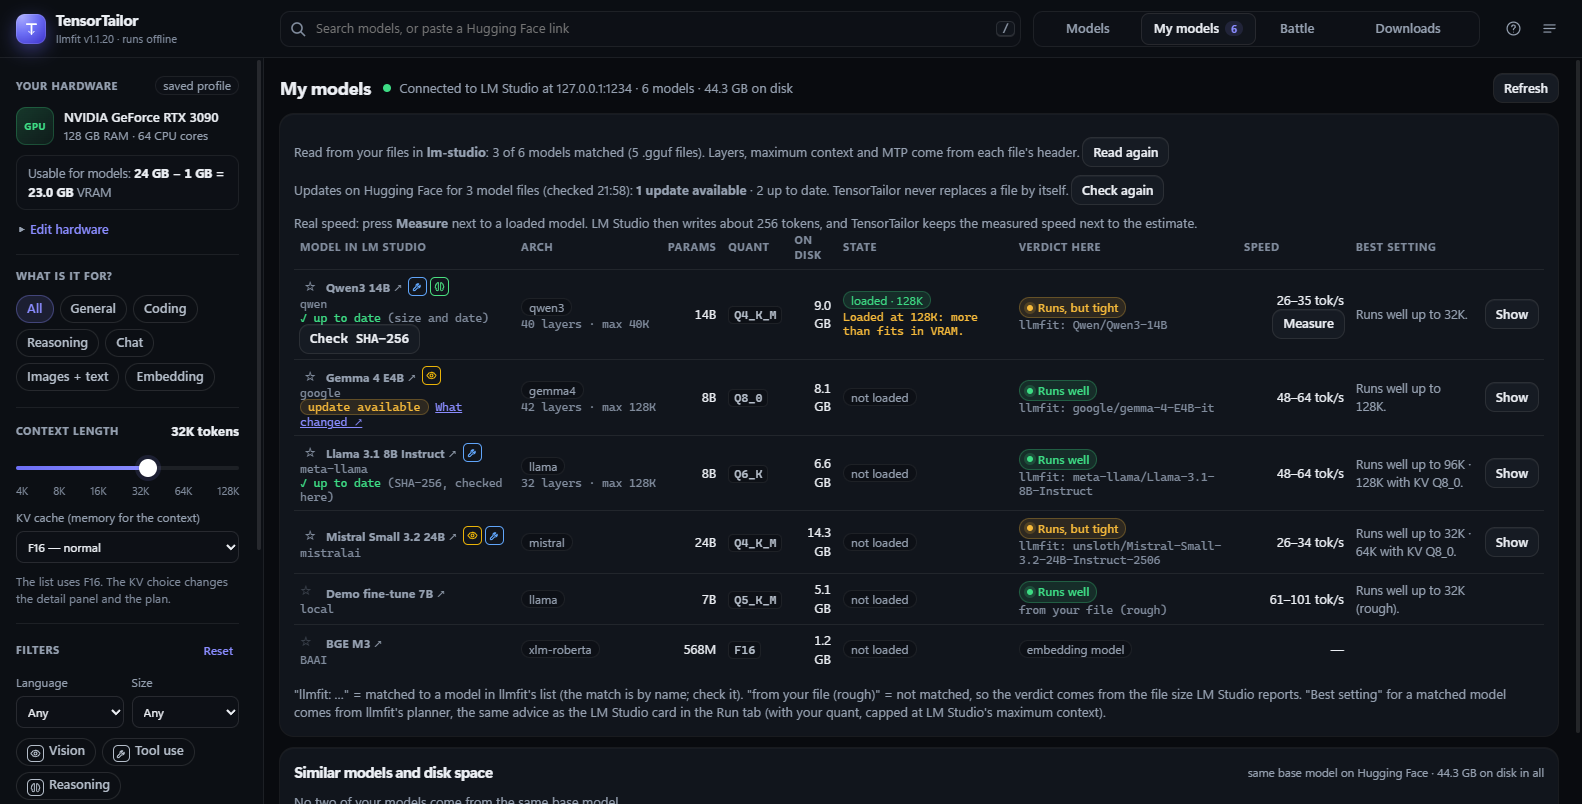
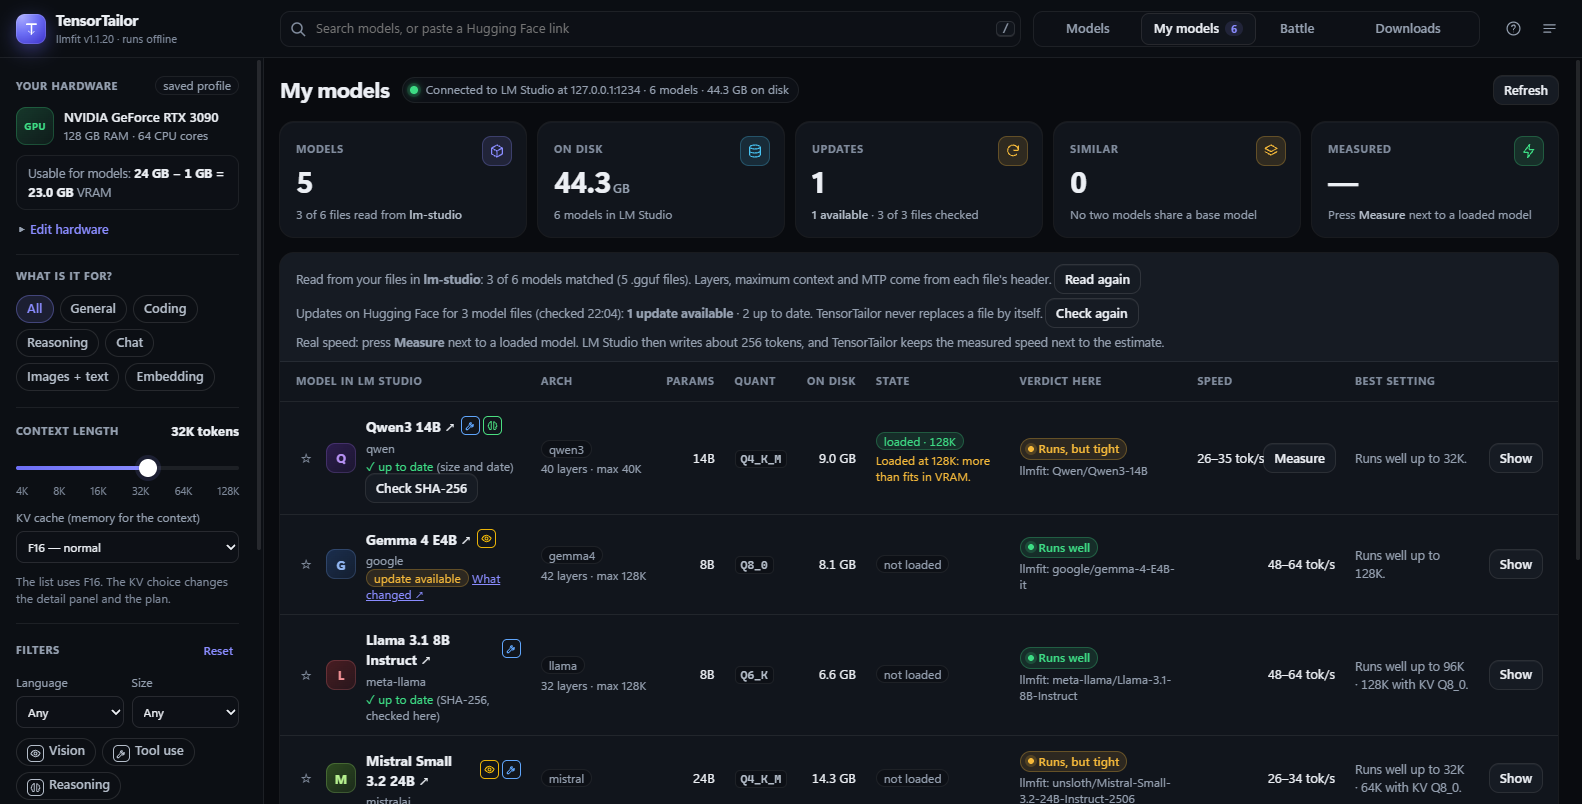
Implemented by Claude Opus 5.5: style: design v4 My models dashboard
Step D5: five summary cards (models, on disk, updates, similar, measured), the status lines as one block above the table, rows with a monogram avatar and calmer meta lines. Help updated.

diff --git a/web/app.html b/web/app.html
@@ -740,6 +740,46 @@ input[type="range"]:focus-visible::-webkit-slider-thumb { box-shadow: 0 0 0 4px 
 .stats { grid-template-columns: 1.45fr 1fr 1fr .9fr; }
 /* The Load box in Run: button and its note under each other, so the box always grows with the text. */
 .lmload.top { display: grid; grid-template-columns: minmax(0, 1fr); gap: 8px; justify-items: start; align-items: start; padding: 12px 14px; }
+
+/* ==== Design v4, step D5: My models ==== */
+.view-pane { gap: 16px; }
+.view-head h1 { font-size: 22px; font-weight: 650; letter-spacing: -.02em; }
+.view-head .status-line { padding: 4px 10px 4px 8px; border-radius: 99px; font-size: 12px; background: var(--sunken); box-shadow: inset 0 0 0 1px var(--line); }
+.view-head .status-line .dot.ok { box-shadow: 0 0 0 3px var(--perfect-soft), 0 0 8px var(--perfect); }
+.kpis { display: grid; grid-template-columns: repeat(5, minmax(0, 1fr)); gap: 12px; }
+.kpi { position: relative; overflow: hidden; padding: 16px 16px 14px; }
+.kpi-l { font: 700 10.5px var(--font); letter-spacing: .08em; text-transform: uppercase; color: var(--faint); }
+.kpi-ic { position: absolute; right: 14px; top: 14px; width: 30px; height: 30px; border-radius: 9px; display: grid; place-items: center; color: var(--c); background: color-mix(in srgb, var(--c) 13%, transparent); box-shadow: inset 0 0 0 1px color-mix(in srgb, var(--c) 26%, transparent); }
+.kpi-ic svg { width: 16px; height: 16px; fill: none; stroke: currentColor; stroke-width: 1.7; stroke-linecap: round; stroke-linejoin: round; }
+.kpi b { display: block; margin-top: 8px; font: 700 30px/1 var(--display); letter-spacing: -.03em; }
+.kpi b small { font: 600 13px var(--font); color: var(--muted); margin-left: 3px; letter-spacing: 0; }
+.kpi p { margin: 10px 0 0; font-size: 12px; color: var(--muted); line-height: 1.4; }
+.kpi p b { display: inline; font: 600 12px var(--font); color: var(--text-2); margin: 0; letter-spacing: 0; }
+/* The status lines as one quiet list above the table. */
+.mine-card { padding: 0; overflow: hidden; }
+.mine-status { padding: 6px 16px 10px; border-bottom: 1px solid var(--line); background: var(--raised); }
+.mine-status .hint { margin: 6px 0 0; font-size: 12.5px; }
+.mine-status .warn-box, .mine-status .loading { margin: 6px 0 0; }
+.mine-card > .hint { padding: 0 16px 14px; }
+/* The table: avatars, sans-serif meta lines, numbers that do not wrap. */
+.mtable th { padding: 12px 10px; white-space: nowrap; border-bottom: 1px solid var(--line); }
+.mtable td { padding: 12px 10px; font-size: 13px; }
+.mtable th:first-child, .mtable td:first-child { padding-left: 16px; }
+.mtable th:last-child, .mtable td:last-child { padding-right: 16px; }
+.mtable tbody tr { transition: background .15s; }
+.mtable tbody tr:hover td { background: var(--hover); }
+.mtable td.r, .mtable th.r { white-space: nowrap; }
+.mtable .hash { font: 12px var(--font); color: var(--muted); margin-top: 2px; }
+.mtable .d-id { color: var(--text); font-size: 14px; }
+.mtable .d-id:hover { color: var(--accent); }
+.mm { display: flex; align-items: center; gap: 10px; min-width: 0; }
+.mm-n { min-width: 0; }
+.mm-t { display: flex; align-items: center; gap: 6px; }
+.mm .star { flex: none; }
+.mtable .quant { font-size: 11.5px; }
+.kpi b.num { text-align: left; }
+/* Cards in the views keep their full height (the view itself scrolls). */
+.view-pane > * { flex: none; }
 </style>
 </head>
 <body>
@@ -1055,6 +1095,7 @@ input[type="range"]:focus-visible::-webkit-slider-thumb { box-shadow: 0 0 0 4px 
       <dt>My models</dt><dd>The models in your LM Studio (its server must be on: Developer tab → server on), with their size on disk, whether they are loaded, the verdict and speed here. <b>Show</b> opens the model in Models. "bundled with LM Studio" marks the embedding model that comes with LM Studio itself (it is not in your models folder; LM Studio uses it to search documents you add to a chat).</dd>
       <dt>My models: your files</dt><dd>My models asks once for LM Studio's models folder (the same folder as for Downloads). TensorTailor matches each model to its file by size and reads only the start of the file. The Arch column then shows the layers and the maximum context ("65 layers · max 256K"); point at it for the KV cache figures (KV heads, head size, how many layers keep the whole context). For models that TensorTailor added itself ("live" or "from LM Studio"), llmfit then counts the KV cache exactly instead of roughly. When LM Studio does not name the quant, the file name tells it.</dd>
       <dt>My models: MTP labels</dt><dd><span class="tag okay">MTP on</span> / <span class="tag">MTP off</span>: LM Studio's own setting for a loaded model. <span class="tag okay">MTP in file</span>: the header of your model file has MTP layers. <span class="tag">MTP (name)</span>: only the name says MTP; read your files to know for sure. "no MTP in file": the name says MTP, the file has none.</dd>
+      <dt>My models: summary cards</dt><dd>Five cards at the top: <b>Models</b> (and how many files TensorTailor read from your folder), <b>On disk</b>, <b>Updates</b> (files with a newer version on Hugging Face), <b>Similar</b> (space of models made from the same base model, and how much keeping one per group would free) and <b>Measured</b> (your real speed as a share of llmfit's estimate). The details are in the lines above the table and in the rows.</dd>
       <dt>My models: Best setting</dt><dd>For a model matched to llmfit's list: the longest context that runs well, from llmfit's planner, the same advice as the LM Studio card in the Run tab ("Runs well up to 32K · 64K with KV Q8_0" = 32K normally, 64K with K and V cache at Q8_0). Capped at LM Studio's maximum. Not matched: a rough estimate from the file size. A loaded model with a longer context than fits gets a warning.</dd>
       <dt>My models: Updates</dt><dd>After TensorTailor has read your models folder, it asks Hugging Face about each model file and its vision projector (the folder name is the repo; once a day, or <b>Check again</b>). <span class="tag warnish">update available</span>: the file on Hugging Face now has another size or SHA-256; <b>What changed ↗</b> opens its history. <span class="tag">maybe changed</span>: same size, but changed there after your file's date. "✓ up to date (size and date)": same size, not changed since. <b>Check SHA-256</b> reads your whole file from disk (about a minute per 10 GB) and compares it exactly; then it says "(SHA-256, checked here)". Files you got with Downloads were already checked at the end of the download: "(SHA-256, checked at download)", no button needed. TensorTailor never replaces or deletes a file.</dd>
       <dt>My models: Measure</dt><dd>Next to a model that is loaded in LM Studio. LM Studio writes about 256 tokens (10–30 seconds) and TensorTailor keeps the real speed next to the estimate: "measured 27 · est. 30–40 for your Q4_K_M", also in the detail panel's Speed. Point at it for the details (date, context, first token, the estimate then). The estimate is llmfit's, scaled to your own file when llmfit counts another quant. Measure never loads or unloads a model. With GPU measurements of models in llmfit's list, other models show "your PC: ~A–B" in the detail panel: llmfit's range times your measured share (the median).</dd>
@@ -3280,6 +3321,29 @@ function mineBestSetting(x, cat) {
   const warn = !x.loaded || !x.loadedCtx ? "" : x.loadedCtx > Math.max(f, q) ? "more than fits in VRAM" : x.loadedCtx > f ? "fits only with K and V cache at Q8_0" : "";
   return { text, tip, warn };
 }
+// My models: five summary cards above the list.
+const KPI_ICON = {
+  models: '<svg viewBox="0 0 24 24"><path d="M12 3 4 7.5v9L12 21l8-4.5v-9z"/><path d="M4 7.5 12 12l8-4.5M12 12v9"/></svg>',
+  disk: '<svg viewBox="0 0 24 24"><ellipse cx="12" cy="6" rx="8" ry="3"/><path d="M4 6v12c0 1.7 3.6 3 8 3s8-1.3 8-3V6M4 12c0 1.7 3.6 3 8 3s8-1.3 8-3"/></svg>',
+  updates: '<svg viewBox="0 0 24 24"><path d="M20 11a8 8 0 1 0-2.3 5.7M20 4v7h-7"/></svg>',
+  similar: '<svg viewBox="0 0 24 24"><path d="m12 3 9 5-9 5-9-5z"/><path d="m3 13 9 5 9-5"/></svg>',
+  measured: '<svg viewBox="0 0 24 24"><path d="M13 2 4 14h7l-1 8 9-12h-7z"/></svg>'
+};
+function mineKpis(totalGB) {
+  const s = state.lms, lg = state.localGguf, nModels = s.models.filter((x) => !/embed/i.test(x.type)).length;
+  const files = lg.done ? updFiles() : [], codes = files.map((f) => updStatus(f).code);
+  const nUpd = codes.filter((c) => c === "update").length, nChecked = codes.filter((c) => c !== "unknown").length;
+  const gs = grpState.done ? simGroups() : [], gTotal = gs.reduce((t, g) => t + g.total, 0), gFree = gs.reduce((t, g) => t + g.free, 0);
+  const nMeas = Object.keys(measStore).length, pf = pcFactor();
+  const card = (key, c, label, value, unit, note) => `<div class="card kpi" style="--c:${c}"><span class="kpi-l">${label}</span><span class="kpi-ic" aria-hidden="true">${KPI_ICON[key]}</span><b class="num">${value}${unit ? `<small>${unit}</small>` : ""}</b><p>${note}</p></div>`;
+  return `<div class="kpis">${[
+    card("models", "var(--accent)", "Models", nModels, "", lg.done ? `${lg.byId.size} of ${s.models.length} files read from <b>${esc(lg.folder)}</b>` : "Model files not read yet"),
+    card("disk", "var(--good)", "On disk", totalGB.toFixed(totalGB >= 100 ? 0 : 1), "GB", `${s.models.length} models in LM Studio`),
+    card("updates", nUpd ? "var(--marginal)" : "var(--perfect)", "Updates", lg.done && files.length ? nUpd : "—", "", !lg.done || !files.length ? "Read your models folder to check" : updState.busy ? "Checking on Hugging Face…" : `${nUpd ? `<b>${nUpd} available</b>` : "<b>All up to date</b>"} · ${nChecked} of ${files.length} files checked`),
+    card("similar", "var(--marginal)", "Similar", gs.length ? gTotal.toFixed(1) : "0", gs.length ? "GB" : "", gs.length ? `${gs.length} group${gs.length === 1 ? "" : "s"} · up to <b>${gb(gFree)}</b> to free` : grpState.busy ? "Looking up base models…" : "No two models share a base model"),
+    card("measured", "var(--perfect)", "Measured", pf ? Math.round(pf.f * 100) : nMeas || "—", pf ? "%" : "", pf ? `of llmfit's estimate on the GPU (median of ${pf.n})` : nMeas ? `${nMeas} measured, no GPU factor yet` : "Press <b>Measure</b> next to a loaded model")
+  ].join("")}</div>`;
+}
 function viewMine() {
   const s = state.lms;
   if (s.online && state.dl.root && !state.localGguf.done && !state.localGguf.busy && !state.localGguf.needClick && !state.localGguf.error) setTimeout(() => scanLocalGguf(false), 0);
@@ -3309,7 +3373,7 @@ function viewMine() {
     const locLine = loc ? (loc.error ? `<div class="hash" title="${esc(loc.path)}">file header: ${esc(loc.error)}</div>` : `<div class="hash" title="${esc("GGUF header of " + loc.path + (loc.kvf ? "\n" + kvFieldsText(loc.kvf) + "." : "") + (fileMtp === false ? "\nNo MTP layers in this file." : ""))}">${loc.blocks ? loc.blocks + " layers" : ""}${loc.blocks && loc.ctx ? " · " : ""}${loc.ctx ? "max " + fmtCtx(loc.ctx) : ""}${fileMtp === false && x.mtpName ? " · no MTP in file" : ""}</div>`) : "";
     // The same favorite star as in the Models list (stars belong to models in llmfit's list).
     const star = cat ? `<button class="star" data-watch="${esc(cat.m.id)}" aria-pressed="${state.watch.has(cat.m.id)}" title="${esc("Favorite (same star as in Models): " + cat.m.id)}" aria-label="Favorite ${esc(x.name)}">${state.watch.has(cat.m.id) ? "★" : "☆"}</button>` : `<span class="star" style="opacity:.35;cursor:default" title="Not matched to a model in llmfit's list, so it has no favorite star">☆</span>`;
-    return `<tr><td><div style="display:flex;gap:6px;align-items:center">${star}<a class="d-id" href="${esc(link)}" target="_blank" rel="noopener"><b>${esc(x.name)}</b> ↗</a>${capIcons(lmsCaps)}</div><div class="hash">${esc(x.publisher)}${bundled ? ` <span class="tag" title="${esc(LMS_BUNDLED_TIP)}">bundled with LM Studio</span>` : ""}${isEmb ? "" : grpTag(x)}</div>${isEmb ? "" : updLine(x)}</td>
+    return `<tr><td><div class="mm">${star}${avatar({ name: x.name, provider: x.publisher, id: x.id })}<div class="mm-n"><div class="mm-t"><a class="d-id" href="${esc(link)}" target="_blank" rel="noopener"><b>${esc(x.name)}</b> ↗</a>${capIcons(lmsCaps)}</div><div class="hash">${esc(x.publisher)}${bundled ? ` <span class="tag" title="${esc(LMS_BUNDLED_TIP)}">bundled with LM Studio</span>` : ""}${isEmb ? "" : grpTag(x)}</div>${isEmb ? "" : updLine(x)}</div></div></td>
       <td style="white-space:nowrap">${x.arch ? `<span class="tag" title="Architecture: the model design that llama.cpp (inside LM Studio) uses to run it, read from the model file by LM Studio.">${esc(x.arch)}</span>` : "—"}${mtpArch ? ` <span class="tag okay" title="${esc(MTP_WHAT + "\n" + mtpWhy)}">MTP</span>` : ""}${locLine}</td>
       <td class="r">${esc(x.paramsStr || (x.params ? fmtParams(x.params) : "—"))}</td>
       <td><span class="quant">${esc(x.quantization || "—")}</span></td><td class="r">${x.sizeGB ? gb(x.sizeGB) : "—"}</td>
@@ -3319,7 +3383,8 @@ function viewMine() {
       <td class="r" style="white-space:nowrap">${cat ? `<button class="btn small" data-show="${esc(cat.m.id)}">Show</button>` : ""}</td></tr>`;
   }).join("");
   return `<div class="view-head"><h1>My models</h1><span class="status-line"><span class="dot ok"></span>Connected to LM Studio at 127.0.0.1:1234 · ${s.models.length} models · ${gb(totalGB)} on disk</span><span class="spacer"></span><button class="btn small" id="btnLmsRefresh">Refresh</button></div>
-    <section class="card">${localGgufLine()}${updSummaryLine()}${measSummaryLine()}${lmsLinkLine()}${kvFillLine()}<table class="mtable"><thead><tr><th>Model in LM Studio</th><th title="Architecture (model design), as LM Studio reports it">Arch</th><th class="r" title="Number of parameters, as LM Studio reports it">Params</th><th>Quant</th><th class="r">On disk</th><th>State</th><th>Verdict here</th><th class="r">Speed</th><th>Best setting</th><th></th></tr></thead><tbody>${rows}</tbody></table>
+    ${mineKpis(totalGB)}
+    <section class="card mine-card"><div class="mine-status">${localGgufLine()}${updSummaryLine()}${measSummaryLine()}${lmsLinkLine()}${kvFillLine()}</div><table class="mtable"><thead><tr><th>Model in LM Studio</th><th title="Architecture (model design), as LM Studio reports it">Arch</th><th class="r" title="Number of parameters, as LM Studio reports it">Params</th><th>Quant</th><th class="r">On disk</th><th>State</th><th>Verdict here</th><th class="r">Speed</th><th>Best setting</th><th></th></tr></thead><tbody>${rows}</tbody></table>
       <p class="hint">"llmfit: …" = matched to a model in llmfit's list (the match is by name; check it). "from your file (rough)" = not matched, so the verdict comes from the file size LM Studio reports. "Best setting" for a matched model comes from llmfit's planner, the same advice as the LM Studio card in the Run tab (with your quant, capped at LM Studio's maximum context).</p></section>${simGroupsCard(totalGB)}`;
 }
 
